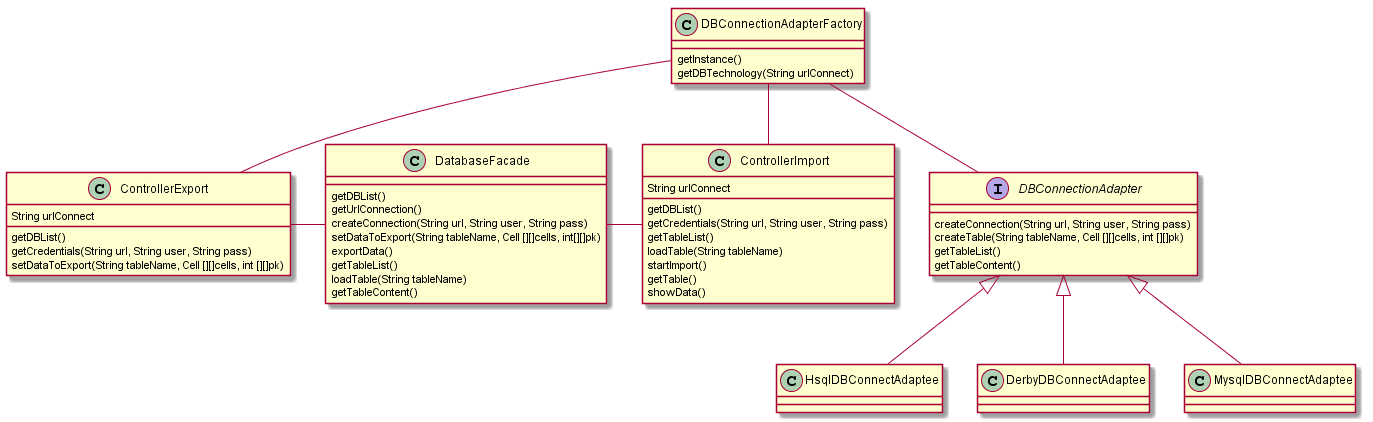
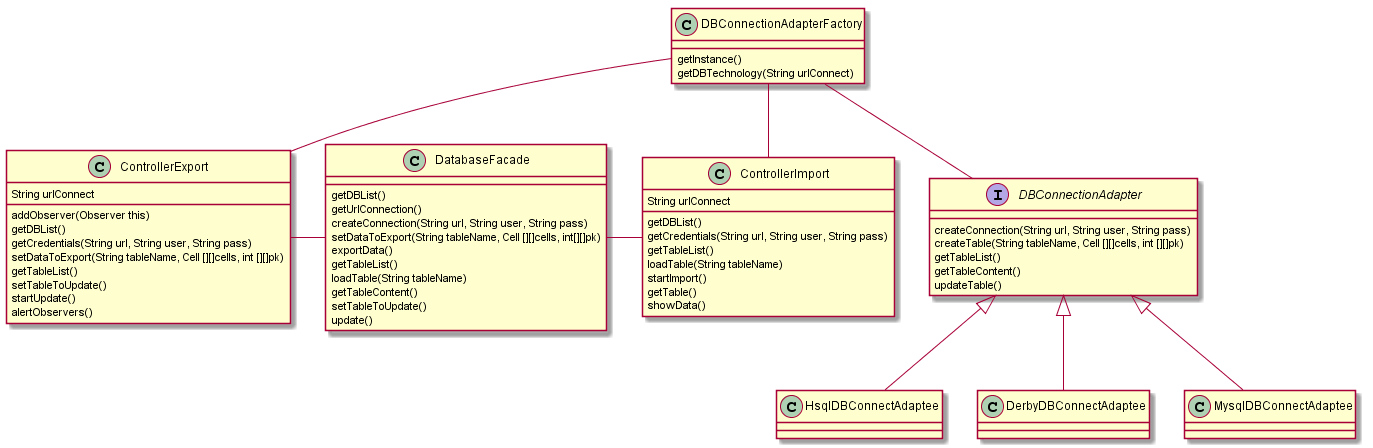
1111168: updated persistence class diagram ref #5 #9 #10

diff --git a/docs/1111168/UmlDiagrams.java b/docs/1111168/UmlDiagrams.java
@@ -345,10 +345,15 @@ DBConnectionAdapterFactory -- ControllerImport
 ControllerExport - DatabaseFacade
 ControllerImport - DatabaseFacade
 DBConnectionAdapterFactory -- DBConnectionAdapter
+ControllerExport: addObserver(Observer this)
 ControllerExport: String urlConnect
 ControllerExport: getDBList()
 ControllerExport: getCredentials(String url, String user, String pass)
 ControllerExport: setDataToExport(String tableName, Cell [][]cells, int [][]pk)
+ControllerExport: getTableList()
+ControllerExport: setTableToUpdate()
+ControllerExport: startUpdate()
+ControllerExport: alertObservers()
 ControllerImport: String urlConnect
 ControllerImport: getDBList()
 ControllerImport: getCredentials(String url, String user, String pass)
@@ -365,12 +370,15 @@ DatabaseFacade: exportData()
 DatabaseFacade: getTableList()
 DatabaseFacade: loadTable(String tableName)
 DatabaseFacade: getTableContent()
+DatabaseFacade: setTableToUpdate()
+DatabaseFacade: update()
 DBConnectionAdapterFactory: getInstance()
 DBConnectionAdapterFactory: getDBTechnology(String urlConnect)
 DBConnectionAdapter: createConnection(String url, String user, String pass)
 DBConnectionAdapter: createTable(String tableName, Cell [][]cells, int [][]pk)
 DBConnectionAdapter: getTableList()
 DBConnectionAdapter: getTableContent()
+DBConnectionAdapter: updateTable()
 @enduml
 
 @startuml Diagrams/use_case_realization_DBexport.png
